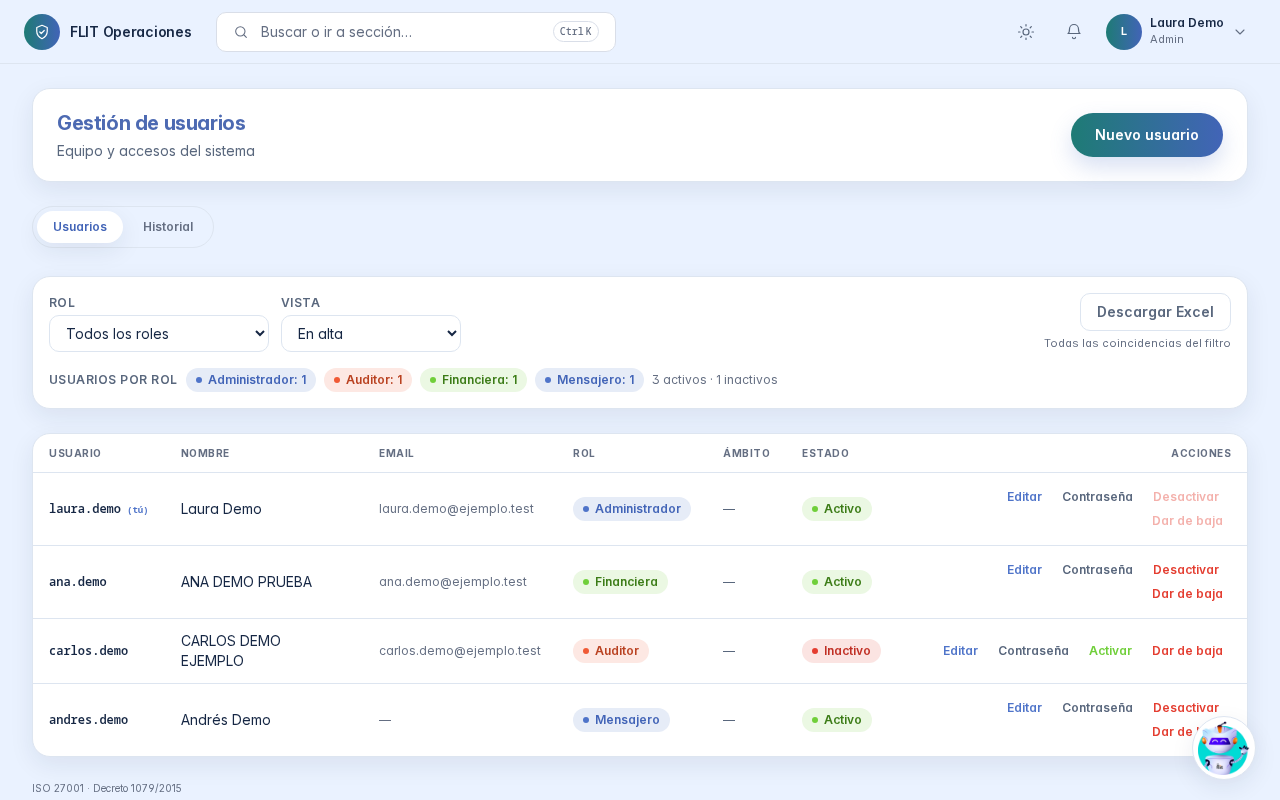
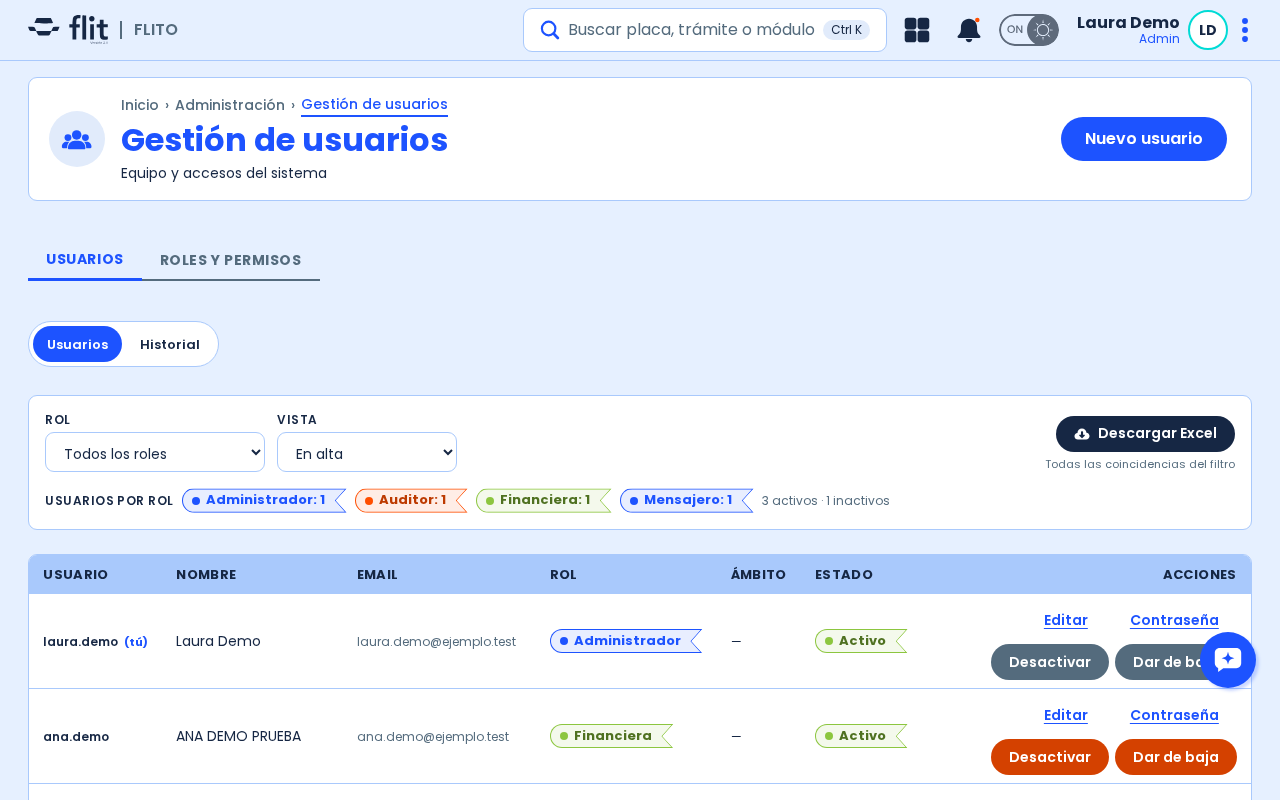
docs(ayuda): fichas de Usuarios, Roles y permisos e Inicio con el UI Kit 2026 y capturas regeneradas (Épica #14560)
users 1.7, roles_permisos 1.3, dashboard 1.1: pestañas entre Usuarios y Roles,
banner de Inicio con las cifras y esqueletos al cargar. Artefacto de Dr. Flit
regenerado. Acciones de la fila de Usuarios en dos filas de dos desde lg.

diff --git a/apps/api/src/modules/flito-dr-flit/ayuda/fichas-ayuda.generated.ts b/apps/api/src/modules/flito-dr-flit/ayuda/fichas-ayuda.generated.ts
@@ -81,8 +81,8 @@ export const FICHAS_AYUDA: readonly FichaAyudaApi[] = Object.freeze([
     "permiso": "dashboard",
     "etiqueta": "Tablero de control",
     "resumen": "Panel operativo de inicio con los indicadores, las alertas y los atajos de los módulos que usted puede abrir.",
-    "version": "1.0",
-    "fecha": "2026-10-22",
+    "version": "1.1",
+    "fecha": "2026-11-12",
     "palabrasClave": [
       "tablero de control",
       "panel operativo",
@@ -101,7 +101,7 @@ export const FICHAS_AYUDA: readonly FichaAyudaApi[] = Object.freeze([
       {
         "ancla": "que-es",
         "titulo": "Qué es",
-        "texto": "El Tablero de control es la pantalla de inicio de quien no tiene el Tablero FLITO. Arriba lo saluda con su nombre y la fecha, bajo el título Panel operativo. Reúne los indicadores de vehículos, SOAT, documentos de flota por vencer y errores de RNDC, las alertas que piden atención y atajos a Mantenimiento, RNDC y PESV. Cada bloque aparece solo si usted puede abrir la pantalla a la que lleva. Es de solo lectura: cada tarjeta lo lleva a la pantalla donde se actúa."
+        "texto": "El Tablero de control es la pantalla de inicio de quien no tiene el Tablero FLITO. Arriba, un banner lo saluda con su nombre y la fecha, bajo el título Panel operativo, y a su lado van las cuatro cifras principales. Reúne los indicadores de vehículos, SOAT, documentos de flota por vencer y errores de RNDC, las alertas que piden atención y atajos a Mantenimiento, RNDC y PESV. Cada bloque aparece solo si usted puede abrir la pantalla a la que lleva. Es de solo lectura: cada tarjeta lo lleva a la pantalla donde se actúa."
       },
       {
         "ancla": "para-quien",
@@ -116,12 +116,12 @@ export const FICHAS_AYUDA: readonly FichaAyudaApi[] = Object.freeze([
       {
         "ancla": "pasos",
         "titulo": "Pasos",
-        "texto": "Lea el bloque Estado operativo: Vehículos (en operación), SOAT vigentes (porcentaje verificado del total), Por vencer 60d (documentos de flota) y RNDC errores (manifiestos con error de envío). A la derecha, Flota y Salud SOAT resumen lo mismo y abren su pantalla al pulsarlas. Panel operativo demo con el bloque Estado operativo, sus cuatro indicadores y las tarjetas Flota y Salud SOAT Pulse Por vencer 60d para abrir Flota en la pestaña de vencimientos. Los enlaces Ver vehículos, Tablero PESV, Rendimiento (RUM) y Métricas trámites abren esas pantallas. Revise Atención operativa: cada fila dice qué está pendiente (solicitudes SOAT pendientes de compra, documentos vencidos o por vencer en 60 días) y su botón Ir a SOAT o Ver vencimientos lo lleva a resolverlo. Debajo, los atajos Mantenimiento, RNDC, PESV y Tablero ejecutivo abren cada módulo. Atención operativa demo con una solicitud SOAT pendiente y documentos vencidos y por vencer, y la fila de atajos debajo Si un bloque dice «No pudimos cargar…», pulse Reintentar: repite solo esa consulta y los demás bloques siguen como están. Diagrama de qué ve al iniciar sesión: con el Tablero FLITO, ese tablero; con el Tablero de control, el Panel operativo; sin ninguno de los dos, la primera pantalla que su usuario puede abrir"
+        "texto": "Lea las cifras junto al saludo: Vehículos (en operación), SOAT vigentes (porcentaje verificado del total), Por vencer 60d (documentos de flota) y RNDC errores (manifiestos con error de envío). Debajo, el bloque Estado operativo reúne las tarjetas Flota y Salud SOAT, que resumen lo mismo y abren su pantalla al pulsarlas. Panel operativo demo con el saludo, sus cuatro indicadores y el bloque Estado operativo con las tarjetas Flota y Salud SOAT Pulse Por vencer 60d para abrir Flota en la pestaña de vencimientos. Los enlaces Ver vehículos, Tablero PESV, Rendimiento (RUM) y Métricas trámites abren esas pantallas. Revise Atención operativa: cada fila dice qué está pendiente (solicitudes SOAT pendientes de compra, documentos vencidos o por vencer en 60 días) y su botón Ir a SOAT o Ver vencimientos lo lleva a resolverlo. Debajo, los atajos Mantenimiento, RNDC, PESV y Tablero ejecutivo abren cada módulo. Atención operativa demo con una solicitud SOAT pendiente y documentos vencidos y por vencer, y la fila de atajos debajo Si un bloque dice «No pudimos cargar…», pulse Reintentar: repite solo esa consulta y los demás bloques siguen como están. Diagrama de qué ve al iniciar sesión: con el Tablero FLITO, ese tablero; con el Tablero de control, el Panel operativo; sin ninguno de los dos, la primera pantalla que su usuario puede abrir"
       },
       {
         "ancla": "estados",
         "titulo": "Estados",
-        "texto": "Cargando: las cifras muestran un punto (·) mientras llegan. Error: por bloque, «No pudimos cargar…» con Reintentar. Si le quitaron el permiso de un bloque mientras lo miraba, ese bloque desaparece en vez de mostrar el error. Vacío: «Tu tablero no tiene indicadores con tus permisos actuales», con la indicación de usar el buscador (Ctrl K) o el menú para ir a sus secciones. Lleno: el bloque Estado operativo, las tarjetas de la derecha, Atención operativa cuando hay pendientes y la fila de atajos."
+        "texto": "Cargando: cada cifra muestra una barra gris mientras llega. Error: por bloque, «No pudimos cargar…» con Reintentar. Si le quitaron el permiso de un bloque mientras lo miraba, ese bloque desaparece en vez de mostrar el error. Vacío: «Tu tablero no tiene indicadores con tus permisos actuales», con la indicación de usar el buscador (Ctrl K) o el menú para ir a sus secciones. Lleno: el saludo con las cuatro cifras, el bloque Estado operativo con sus tarjetas, Atención operativa cuando hay pendientes y la fila de atajos."
       },
       {
         "ancla": "que-no-hace",
@@ -1279,8 +1279,8 @@ export const FICHAS_AYUDA: readonly FichaAyudaApi[] = Object.freeze([
     "permiso": "users",
     "etiqueta": "Usuarios",
     "resumen": "Alta, edición, bloqueo y baja de las personas que entran a FLITO, con el historial de cambios.",
-    "version": "1.6",
-    "fecha": "2026-11-09",
+    "version": "1.7",
+    "fecha": "2026-11-12",
     "palabrasClave": [
       "usuarios",
       "gestión de usuarios",
@@ -1310,7 +1310,7 @@ export const FICHAS_AYUDA: readonly FichaAyudaApi[] = Object.freeze([
       {
         "ancla": "como-se-entra",
         "titulo": "Cómo se entra",
-        "texto": "Menú Administración, ítem Usuarios."
+        "texto": "Menú Administración, ítem Usuarios. Arriba de la pantalla, las pestañas Usuarios y Roles y permisos llevan de una a otra; Roles y permisos solo aparece si usted puede abrir esa pantalla."
       },
       {
         "ancla": "pasos",
@@ -1334,8 +1334,8 @@ export const FICHAS_AYUDA: readonly FichaAyudaApi[] = Object.freeze([
     "permiso": "roles_permisos",
     "etiqueta": "Roles y permisos",
     "resumen": "Qué puede hacer cada rol dentro de FLITO.",
-    "version": "1.2",
-    "fecha": "2026-10-25",
+    "version": "1.3",
+    "fecha": "2026-11-12",
     "palabrasClave": [
       "roles",
       "permisos",
@@ -1361,7 +1361,7 @@ export const FICHAS_AYUDA: readonly FichaAyudaApi[] = Object.freeze([
       {
         "ancla": "como-se-entra",
         "titulo": "Cómo se entra",
-        "texto": "Menú Administración, ítem Roles y permisos, junto a Usuarios."
+        "texto": "Menú Administración, ítem Roles y permisos, junto a Usuarios. Arriba de la pantalla, las pestañas Usuarios y Roles y permisos llevan de una a otra; Usuarios solo aparece si usted puede abrir esa pantalla."
       },
       {
         "ancla": "pasos",
@@ -1371,7 +1371,7 @@ export const FICHAS_AYUDA: readonly FichaAyudaApi[] = Object.freeze([
       {
         "ancla": "estados",
         "titulo": "Estados",
-        "texto": "Cargando: esqueleto de dos columnas. Error: «No se pudo cargar el catálogo de roles y permisos. Revisa tu conexión y vuelve a intentarlo.» con Reintentar. Si falla solo el árbol del rol elegido, el aviso lo dice y ofrece Reintentar ahí mismo. Vacío: sin roles se ofrece Nuevo rol; si el catálogo llega vacío se ofrece Reintentar; un rol sin nada marcado avisa de que quien lo tenga no verá ningún elemento del menú al entrar. Lleno: lista de roles y árbol del rol seleccionado. La cabecera dice el enlace del rol y cuántos usuarios lo tienen. Con cambios pendientes aparece la barra Sin guardar con Descartar y Guardar cambios. Solo lectura: sin la acción Asignar permisos, un aviso lo explica y no hay casillas que cambiar. No se guardó por seguridad: si el cambio dejaría a FLITO sin ningún usuario activo que pueda administrar Usuarios y Roles y permisos, un aviso en la página lo explica, nombra lo que hay que volver a marcar con Mostrar dónde está, y sus cambios siguen ahí sin guardar. No se guardó por una función exclusiva: si el guardado intenta darle a otro rol una función exclusiva del Administrador (o quitársela al Administrador), un aviso en la página nombra la función, dice qué hacer y ofrece Mostrar dónde está; sus cambios siguen ahí sin guardar. Error al guardar: «No se pudieron guardar los permisos. Tus cambios siguen aquí; vuelve a intentarlo con «Guardar cambios».» Error al guardar el rol: el formulario muestra «No se pudo guardar el rol. Inténtalo de nuevo; si se repite, recarga la página.» sin cerrarse."
+        "texto": "Cargando: barras grises en las dos columnas mientras llegan los roles y el árbol. Error: «No se pudo cargar el catálogo de roles y permisos. Revisa tu conexión y vuelve a intentarlo.» con Reintentar. Si falla solo el árbol del rol elegido, el aviso lo dice y ofrece Reintentar ahí mismo. Vacío: sin roles se ofrece Nuevo rol; si el catálogo llega vacío se ofrece Reintentar; un rol sin nada marcado avisa de que quien lo tenga no verá ningún elemento del menú al entrar. Lleno: lista de roles y árbol del rol seleccionado. La cabecera dice el enlace del rol y cuántos usuarios lo tienen. Con cambios pendientes aparece la barra Sin guardar con Descartar y Guardar cambios. Solo lectura: sin la acción Asignar permisos, un aviso lo explica y no hay casillas que cambiar. No se guardó por seguridad: si el cambio dejaría a FLITO sin ningún usuario activo que pueda administrar Usuarios y Roles y permisos, un aviso en la página lo explica, nombra lo que hay que volver a marcar con Mostrar dónde está, y sus cambios siguen ahí sin guardar. No se guardó por una función exclusiva: si el guardado intenta darle a otro rol una función exclusiva del Administrador (o quitársela al Administrador), un aviso en la página nombra la función, dice qué hacer y ofrece Mostrar dónde está; sus cambios siguen ahí sin guardar. Error al guardar: «No se pudieron guardar los permisos. Tus cambios siguen aquí; vuelve a intentarlo con «Guardar cambios».» Error al guardar el rol: el formulario muestra «No se pudo guardar el rol. Inténtalo de nuevo; si se repite, recarga la página.» sin cerrarse."
       },
       {
         "ancla": "que-no-hace",

diff --git a/apps/web/e2e/tests/flito-ayuda-artefactos.spec.ts b/apps/web/e2e/tests/flito-ayuda-artefactos.spec.ts
@@ -466,8 +466,8 @@ test.describe('FLITO — Ayuda · artefactos AC6/AC7', () => {
   // HU #13951: Roles y permisos sube a 1.2 (funciones exclusivas del Administrador); sus capturas no cambian.
   const ADMIN_13774: Record<string, { version: string; fecha?: string; capturas: string[]; diagrama: string | null }> = {
     privacy_log_pii: { version: '1.0', diagrama: null, capturas: ['01-resumen.png', '02-filtros.png'] },
-    users: { version: '1.5', fecha: '2026-11-06', diagrama: 'ciclo-usuario.svg', capturas: ['01-usuarios.png', '02-nuevo-usuario.png', '03-historial.png'] },
-    roles_permisos: { version: '1.2', fecha: '2026-10-25', diagrama: 'reparto-de-permisos.svg', capturas: [
+    users: { version: '1.7', fecha: '2026-11-12', diagrama: 'ciclo-usuario.svg', capturas: ['01-usuarios.png', '02-nuevo-usuario.png', '03-historial.png'] },
+    roles_permisos: { version: '1.3', fecha: '2026-11-12', diagrama: 'reparto-de-permisos.svg', capturas: [
       '01-roles.png', '02-arbol.png', '03-sin-guardar.png', '04-nuevo-rol.png'] },
     drive: { version: '1.0', diagrama: 'procesar-cuentas.svg', capturas: ['01-carpeta-raiz.png', '02-carpeta.png', '03-resultado.png'] },
     privacy: { version: '1.0', diagrama: 'derecho-al-olvido.svg', capturas: ['01-documento.png', '02-registros-afectados.png'] },
@@ -518,19 +518,20 @@ test.describe('FLITO — Ayuda · artefactos AC6/AC7', () => {
   // HU #13775 — Tablero de control (General) y Organismos de tránsito (grupo Tránsito): misma comprobación que
   // ADMIN_13774. Las dos nacen en 1.0. «Sin rutas» admite solo el enlace interno a otra ficha de la Ayuda
   // (`/flito/ayuda/<clave>`), que es el aviso de AC2 en «Cómo se entra» del Tablero de control.
-  const TRANSITO_13775: Record<string, { version: string; capturas: string[]; diagrama: string | null }> = {
-    dashboard: { version: '1.0', diagrama: 'que-ve-al-entrar.svg', capturas: ['01-estado-operativo.png', '02-atencion-y-atajos.png'] },
+  const TRANSITO_13775: Record<string, { version: string; fecha?: string; capturas: string[]; diagrama: string | null }> = {
+    // Rediseño UI Kit 2026 (Épica #14560, S6): banner de Inicio con las cifras y esqueletos al cargar.
+    dashboard: { version: '1.1', fecha: '2026-11-12', diagrama: 'que-ve-al-entrar.svg', capturas: ['01-estado-operativo.png', '02-atencion-y-atajos.png'] },
     transito_organismos: { version: '1.0', diagrama: 'cambio-de-modalidad.svg', capturas: [
       '01-organismos.png', '02-general.png', '03-autogestion.png', '04-plantilla.png'] },
   };
 
   for (const [clave, esperado] of Object.entries(TRANSITO_13775)) {
-    test(`HU #13775 — ${clave}: versión ${esperado.version} del 2026-10-22, capturas y diagrama con alt`, () => {
+    test(`HU #13775 — ${clave}: versión ${esperado.version} del ${esperado.fecha ?? '2026-10-22'}, capturas y diagrama con alt`, () => {
       const md = leer(`apps/web/src/content/ayuda/${clave}.md`);
       const { encabezado, errores } = parsearFicha(md);
       expect(errores, clave).toEqual([]);
       expect(encabezado!.version, `${clave} · version`).toBe(esperado.version);
-      expect(String(encabezado!.fecha), `${clave} · fecha`).toBe('2026-10-22');
+      expect(String(encabezado!.fecha), `${clave} · fecha`).toBe(esperado.fecha ?? '2026-10-22');
       // AC4 — sin rutas de API ni rutas de la app en el texto (salvo el enlace interno a otra ficha).
       const sinEnlacesAyuda = md.replace(/\]\(\/flito\/ayuda\/[a-z_]+(#[a-z0-9-]+)?\)/g, ']()');
       expect(sinEnlacesAyuda, `${clave} · sin rutas`).not.toMatch(/`\/|\/api\/|\/flito\//);

diff --git a/apps/web/e2e/tests/ayuda-capturas.capturas.spec.ts b/apps/web/e2e/tests/ayuda-capturas.capturas.spec.ts
@@ -1165,7 +1165,8 @@ test.describe('Ayuda FLITO — capturas con datos demo @capturas', () => {
     await page.waitForTimeout(1500); // los contadores animados terminan de subir
     const mostrarBarra = await sinBarraFlotante(page);
     await sinFoco(page);
-    await capturar(page, dir, '01-estado-operativo');
+    // Rediseño 2026: el banner con degradado no comprime; se recorta al contenido (sin la barra superior).
+    await capturar(page, dir, '01-estado-operativo', page.locator('main'));
 
     // Paso 3 — Atención operativa y la fila de atajos.
     await page.getByRole('region', { name: 'Atención operativa' }).evaluate((el) => el.scrollIntoView({ block: 'start' }));

diff --git a/apps/web/src/pages/users/UsersTable.tsx b/apps/web/src/pages/users/UsersTable.tsx
@@ -108,7 +108,7 @@ export default function UsersTable({ users, loading, error, onReintentar, vacioM
         // Por función (kit): editar/contraseña navegan (ghost), activar/reactivar confirman (verde),
         // desactivar y dar de baja son destructivos (naranja).
         return (
-          <div className="flex flex-wrap justify-end gap-1.5">
+          <div className="flex flex-wrap justify-end gap-1.5 lg:min-w-[18rem]">
             {u.deletedAt != null ? (
               <GradientButton type="button" size="sm" variant="success" onClick={() => onReactivar(u)}>Reactivar</GradientButton>
             ) : (

diff --git a/apps/web/src/content/ayuda/dashboard.md b/apps/web/src/content/ayuda/dashboard.md
@@ -12,12 +12,12 @@ consultas:
   - qué veo al iniciar sesión
   - por qué mi inicio no muestra indicadores
   - dónde veo los documentos por vencer
-version: 1.0
-fecha: 2026-10-22
+version: 1.1
+fecha: 2026-11-12
 ---
 ## Qué es
 
-El **Tablero de control** es la pantalla de inicio de quien no tiene el Tablero FLITO. Arriba lo saluda con su nombre y la fecha, bajo el título **Panel operativo**. Reúne los indicadores de vehículos, SOAT, documentos de flota por vencer y errores de RNDC, las alertas que piden atención y atajos a Mantenimiento, RNDC y PESV. Cada bloque aparece solo si usted puede abrir la pantalla a la que lleva. Es de solo lectura: cada tarjeta lo lleva a la pantalla donde se actúa.
+El **Tablero de control** es la pantalla de inicio de quien no tiene el Tablero FLITO. Arriba, un banner lo saluda con su nombre y la fecha, bajo el título **Panel operativo**, y a su lado van las cuatro cifras principales. Reúne los indicadores de vehículos, SOAT, documentos de flota por vencer y errores de RNDC, las alertas que piden atención y atajos a Mantenimiento, RNDC y PESV. Cada bloque aparece solo si usted puede abrir la pantalla a la que lleva. Es de solo lectura: cada tarjeta lo lleva a la pantalla donde se actúa.
 
 ## Para quién
 
@@ -32,7 +32,7 @@ Es lo primero que ve al iniciar sesión. Para volver a él, abra el menú **Gene
 
 ## Pasos
 
-1. Lea el bloque **Estado operativo**: **Vehículos** (en operación), **SOAT vigentes** (porcentaje verificado del total), **Por vencer 60d** (documentos de flota) y **RNDC errores** (manifiestos con error de envío). A la derecha, **Flota** y **Salud SOAT** resumen lo mismo y abren su pantalla al pulsarlas. ![Panel operativo demo con el bloque Estado operativo, sus cuatro indicadores y las tarjetas Flota y Salud SOAT](./dashboard/01-estado-operativo.png)
+1. Lea las cifras junto al saludo: **Vehículos** (en operación), **SOAT vigentes** (porcentaje verificado del total), **Por vencer 60d** (documentos de flota) y **RNDC errores** (manifiestos con error de envío). Debajo, el bloque **Estado operativo** reúne las tarjetas **Flota** y **Salud SOAT**, que resumen lo mismo y abren su pantalla al pulsarlas. ![Panel operativo demo con el saludo, sus cuatro indicadores y el bloque Estado operativo con las tarjetas Flota y Salud SOAT](./dashboard/01-estado-operativo.png)
 2. Pulse **Por vencer 60d** para abrir Flota en la pestaña de vencimientos. Los enlaces **Ver vehículos**, **Tablero PESV**, **Rendimiento (RUM)** y **Métricas trámites** abren esas pantallas.
 3. Revise **Atención operativa**: cada fila dice qué está pendiente (solicitudes SOAT pendientes de compra, documentos vencidos o por vencer en 60 días) y su botón **Ir a SOAT** o **Ver vencimientos** lo lleva a resolverlo. Debajo, los atajos **Mantenimiento**, **RNDC**, **PESV** y **Tablero ejecutivo** abren cada módulo. ![Atención operativa demo con una solicitud SOAT pendiente y documentos vencidos y por vencer, y la fila de atajos debajo](./dashboard/02-atencion-y-atajos.png)
 4. Si un bloque dice «No pudimos cargar…», pulse **Reintentar**: repite solo esa consulta y los demás bloques siguen como están.
@@ -41,10 +41,10 @@ Es lo primero que ve al iniciar sesión. Para volver a él, abra el menú **Gene
 
 ## Estados
 
-- **Cargando**: las cifras muestran un punto (·) mientras llegan.
+- **Cargando**: cada cifra muestra una barra gris mientras llega.
 - **Error**: por bloque, «No pudimos cargar…» con **Reintentar**. Si le quitaron el permiso de un bloque mientras lo miraba, ese bloque desaparece en vez de mostrar el error.
 - **Vacío**: «Tu tablero no tiene indicadores con tus permisos actuales», con la indicación de usar el buscador (Ctrl K) o el menú para ir a sus secciones.
-- **Lleno**: el bloque **Estado operativo**, las tarjetas de la derecha, **Atención operativa** cuando hay pendientes y la fila de atajos.
+- **Lleno**: el saludo con las cuatro cifras, el bloque **Estado operativo** con sus tarjetas, **Atención operativa** cuando hay pendientes y la fila de atajos.
 
 ## Qué no hace
 

diff --git a/apps/web/src/content/ayuda/roles_permisos.md b/apps/web/src/content/ayuda/roles_permisos.md
@@ -9,8 +9,8 @@ consultas:
   - qué puede hacer cada rol
   - cómo doy acceso a una pantalla
   - por qué no puedo marcar una función en un rol
-version: 1.2
-fecha: 2026-10-25
+version: 1.3
+fecha: 2026-11-12
 ---
 ## Qué es
 
@@ -22,7 +22,7 @@ Quien tenga el permiso de ver **Roles y permisos**. Para cambiar las marcas hace
 
 ## Cómo se entra
 
-Menú **Administración**, ítem **Roles y permisos**, junto a **Usuarios**.
+Menú **Administración**, ítem **Roles y permisos**, junto a **Usuarios**. Arriba de la pantalla, las pestañas **Usuarios** y **Roles y permisos** llevan de una a otra; **Usuarios** solo aparece si usted puede abrir esa pantalla.
 
 ## Pasos
 
@@ -59,7 +59,7 @@ Algunos casos del árbol llevan su propia nota:
 
 ## Estados
 
-- **Cargando**: esqueleto de dos columnas.
+- **Cargando**: barras grises en las dos columnas mientras llegan los roles y el árbol.
 - **Error**: «No se pudo cargar el catálogo de roles y permisos. Revisa tu conexión y vuelve a intentarlo.» con **Reintentar**. Si falla solo el árbol del rol elegido, el aviso lo dice y ofrece **Reintentar** ahí mismo.
 - **Vacío**: sin roles se ofrece **Nuevo rol**; si el catálogo llega vacío se ofrece **Reintentar**; un rol sin nada marcado avisa de que quien lo tenga no verá ningún elemento del menú al entrar.
 - **Lleno**: lista de roles y árbol del rol seleccionado. La cabecera dice el enlace del rol y cuántos usuarios lo tienen. Con cambios pendientes aparece la barra **Sin guardar** con **Descartar** y **Guardar cambios**.

diff --git a/apps/web/src/content/ayuda/users.md b/apps/web/src/content/ayuda/users.md
@@ -13,8 +13,8 @@ consultas:
   - cómo desactivo o doy de baja a un usuario
   - quién le cambió el rol a un usuario
   - por qué no puedo darle a un usuario la función de eliminar clientes
-version: 1.6
-fecha: 2026-11-09
+version: 1.7
+fecha: 2026-11-12
 ---
 ## Qué es
 
@@ -26,7 +26,7 @@ Quien tenga el ítem **Usuarios**. De partida, el Administrador gestiona todo; e
 
 ## Cómo se entra
 
-Menú **Administración**, ítem **Usuarios**.
+Menú **Administración**, ítem **Usuarios**. Arriba de la pantalla, las pestañas **Usuarios** y **Roles y permisos** llevan de una a otra; **Roles y permisos** solo aparece si usted puede abrir esa pantalla.
 
 ## Pasos
 
